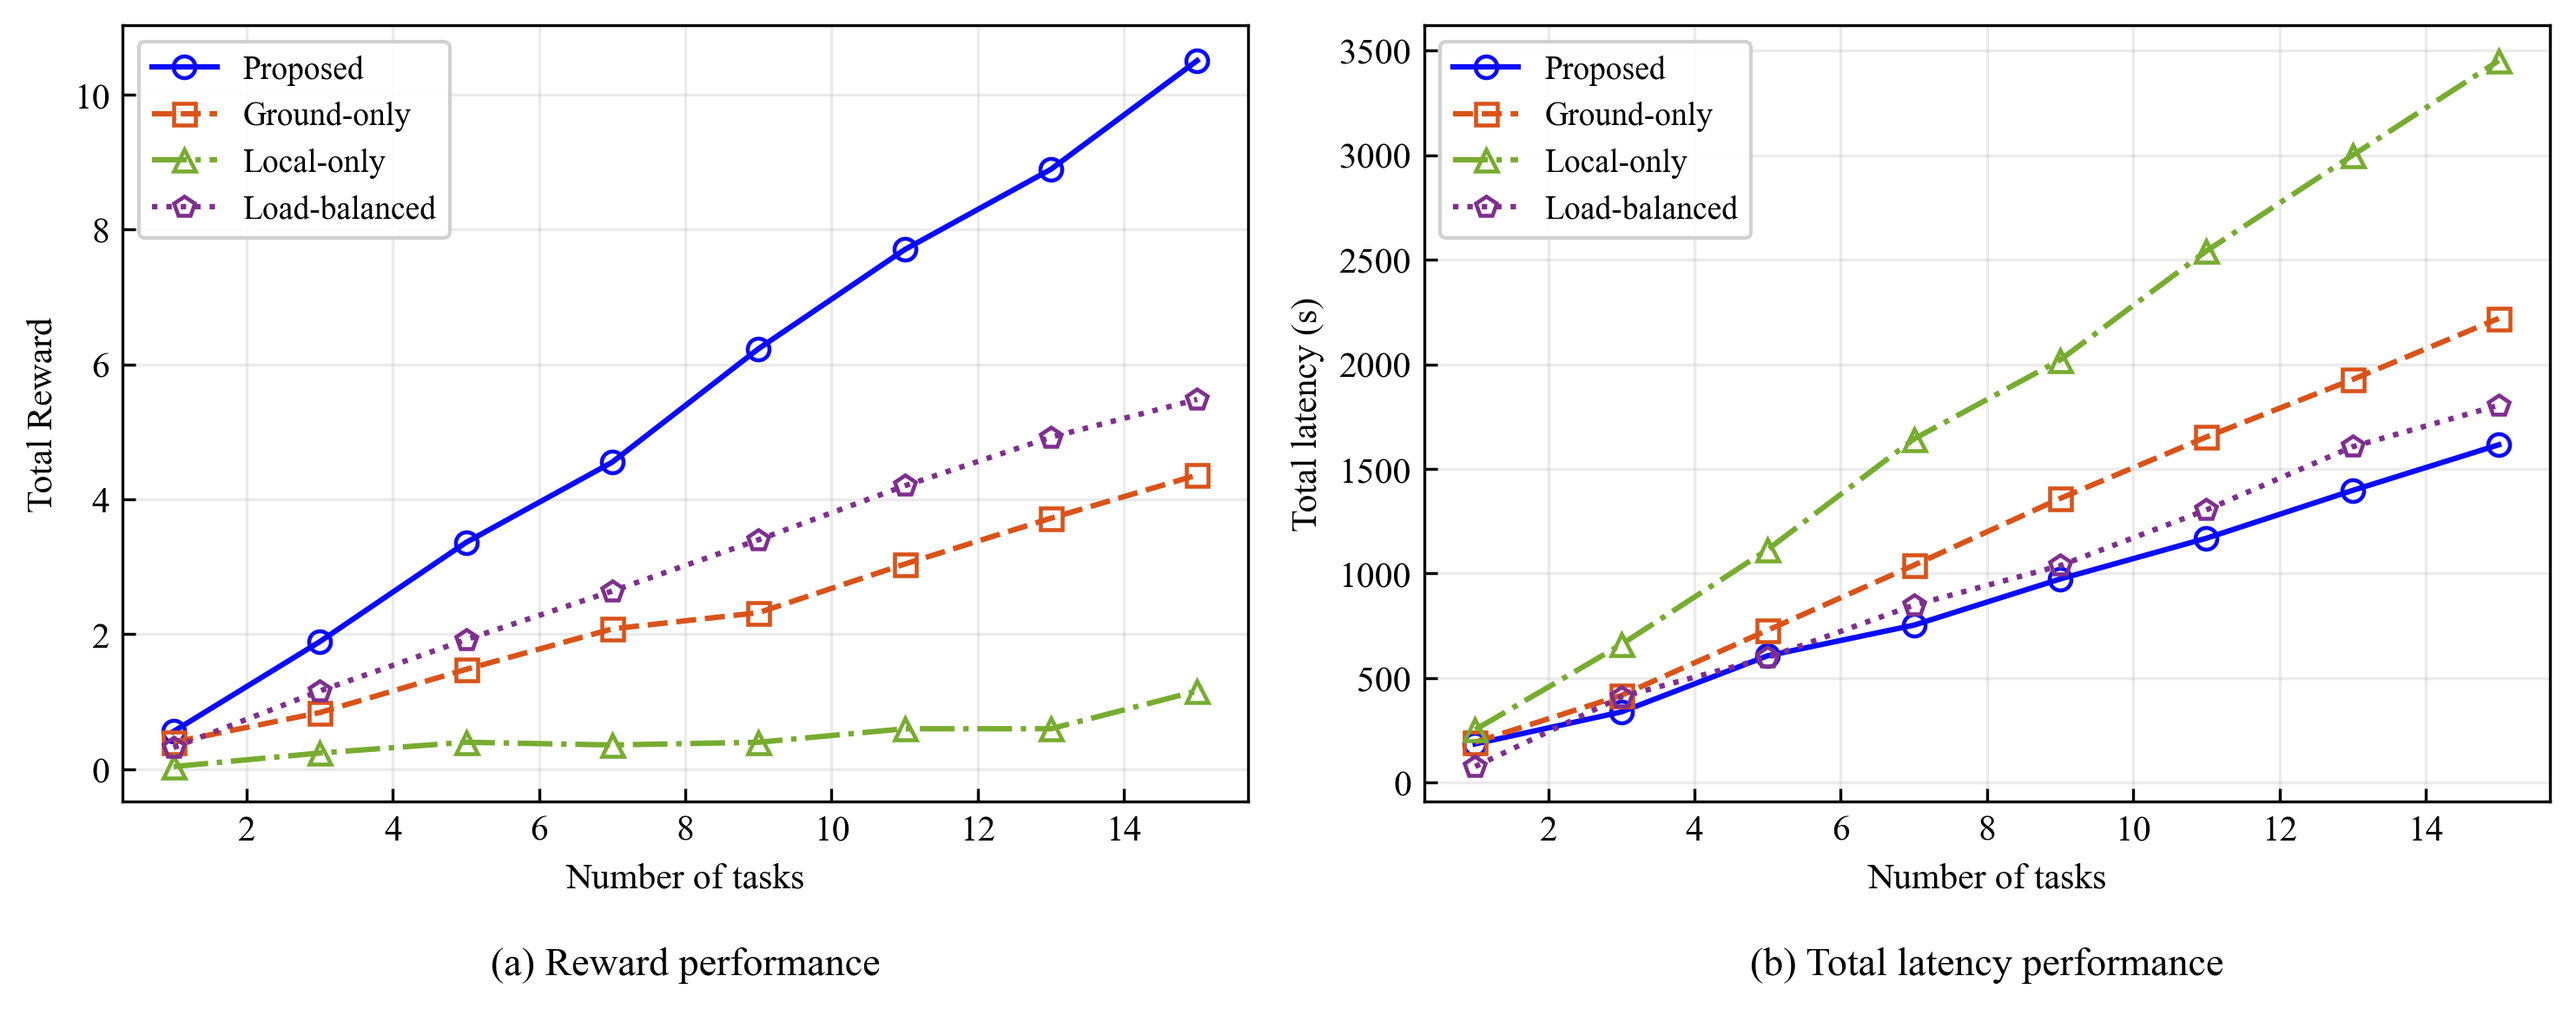
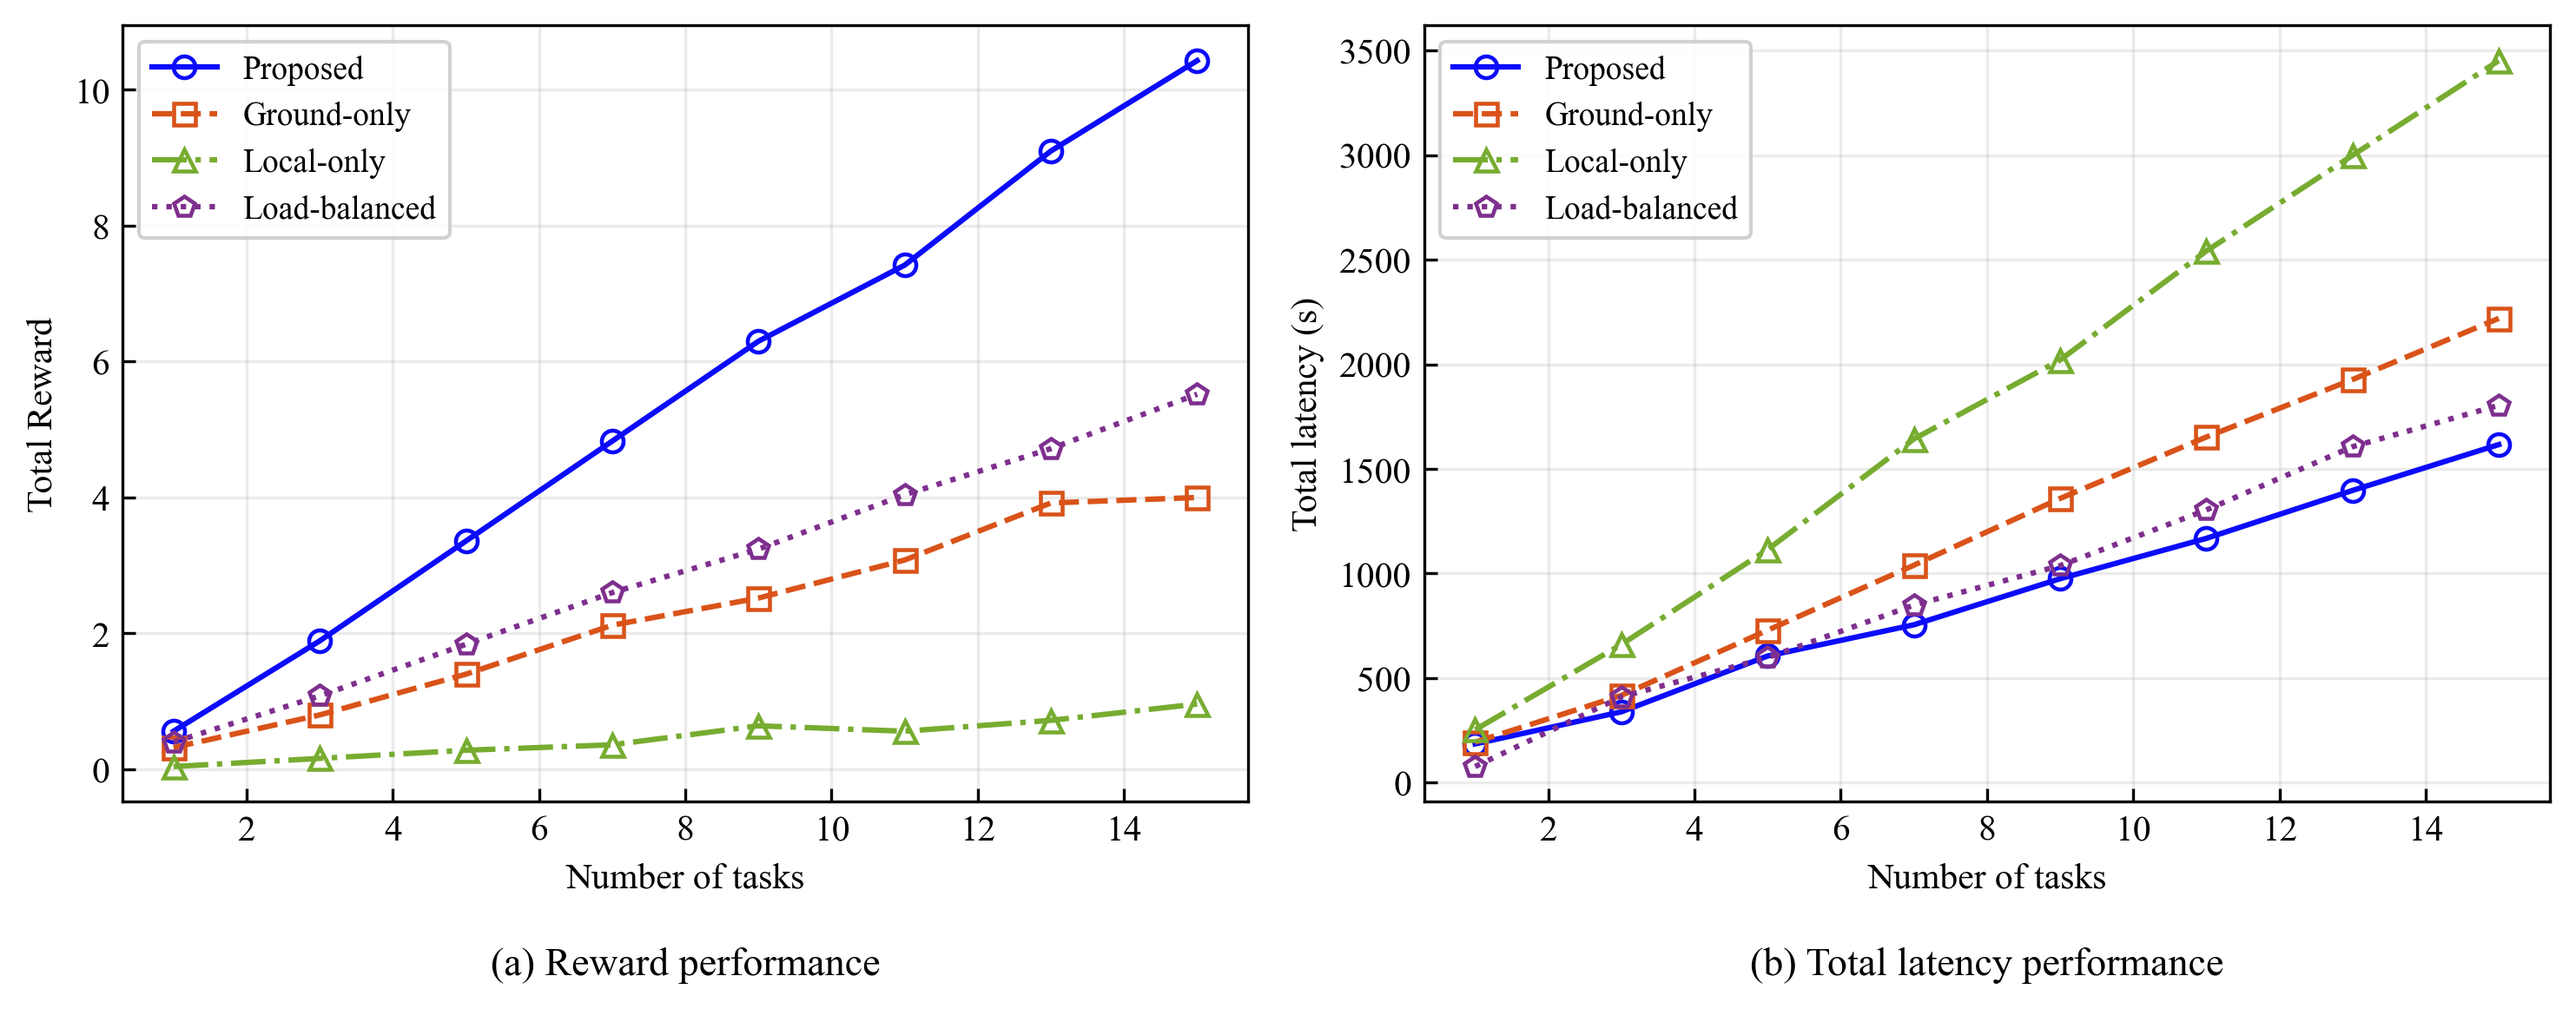
20251215 shift env

diff --git a/scripts/plot_perf_compare1.py b/scripts/plot_perf_compare1.py
@@ -115,7 +115,7 @@ def _constant_action(env, first_idx: int, assign_idx: int = 0) -> np.ndarray:
 
 def local_only_policy(env):
     """
-    "本地"基线改为把任务分摊到前三个可用计算卫星（不含地面站），
+    “本地”基线改为把任务分摊到前三个可用计算卫星（不含地面站），
     使用最小 slice_size（index 0），分配维度轮询 0/1/2。
     """
     nvec = np.array(env.action_space.nvec, dtype=np.int64)
@@ -139,7 +139,7 @@ def ground_only_policy(env):
 
 def load_balanced_policy(env):
     """
-    简单的"负载均衡"基线：slice_strategy 取最小（index 0），assignment 在可用 compute 节点间循环。
+    简单的“负载均衡”基线：slice_strategy 取最小（index 0），assignment 在可用 compute 节点间循环。
     """
     nvec = np.array(env.action_space.nvec, dtype=np.int64)
     first_idx = 0
@@ -153,30 +153,6 @@ def load_balanced_policy(env):
         # 假设 ground 是最后一个 dest，所以轮询只到 num_compute-1
         act[1:] = rr
     return act
-
-
-def _plot_panel(ax, xs, ys, ylabel, title, curves, jittered_latency=None):
-    """通用的绘图函数，用于在给定的坐标轴上绘制一个子图"""
-    for name, cfg in curves.items():
-        y_data = jittered_latency[name] if jittered_latency else cfg["ys_reward"]
-        ax.plot(
-            xs,
-            y_data,
-            label=name,
-            color=cfg["color"],
-            marker=cfg["marker"],
-            linestyle=cfg["ls"],
-            linewidth=1.5,
-            markersize=6,
-            markerfacecolor="none",
-            markeredgewidth=1.1,
-        )
-    ax.set_xlabel("Number of tasks")
-    ax.set_ylabel(ylabel)
-    ax.set_title(title, fontsize=11, y=-0.25)
-    ax.grid(True, alpha=0.25)
-    ax.tick_params(direction="in")
-    ax.legend(framealpha=0.9, fontsize=9)
 
 
 def main():
@@ -272,54 +248,43 @@ def main():
         env.close()
         print(f"[Eval] Point {i+1} done.\n", flush=True)
 
-    # 生成抖动后的延迟数据
+    # Plot side-by-side subplots: left = reward, right = total latency
+    fig, axes = plt.subplots(1, 2, figsize=(10, 4), sharex=False)
+
+    # Add small random jitter to latency points to visually separate lines
     rng = np.random.default_rng(1234)
     jittered_latency = {
         k: [max(y + rng.uniform(-50.0, 50.0), 0.0) for y in v["ys_latency"]]
         for k, v in curves.items()
     }
 
-    # 1. 创建并保存并排子图
-    fig, axes = plt.subplots(1, 2, figsize=(10, 4), sharex=False)
-    
-    # 绘制奖励子图
-    _plot_panel(axes[0], xs, {k: v["ys_reward"] for k, v in curves.items()}, 
-                "Total Reward", "(a) Reward performance", curves)
-    
-    # 绘制延迟子图
-    _plot_panel(axes[1], xs, jittered_latency, 
-                "Total latency (s)", "(b) Total latency performance", curves, jittered_latency)
-    
+    def _plot_panel(ax, ys, ylabel, title):
+        for name, cfg in curves.items():
+            ax.plot(
+                xs,
+                ys[name],
+                label=name,
+                color=cfg["color"],
+                marker=cfg["marker"],
+                linestyle=cfg["ls"],
+                linewidth=1.5,
+                markersize=6,
+                markerfacecolor="none",
+                markeredgewidth=1.1,
+            )
+        ax.set_xlabel("Number of tasks" if task_counts else "Eval batches")
+        ax.set_ylabel(ylabel)
+        ax.set_title(title, fontsize=11, y=-0.25)
+        ax.grid(True, alpha=0.25)
+        ax.tick_params(direction="in")
+        ax.legend(framealpha=0.9, fontsize=9)
+
+    _plot_panel(axes[0], {k: v["ys_reward"] for k, v in curves.items()}, "Total Reward", "(a) Reward performance")
+    _plot_panel(axes[1], jittered_latency, "Total latency (s)", "(b) Total latency performance")
+
     plt.tight_layout()
     fig.savefig(args.out, dpi=300, bbox_inches="tight")
-    print(f"Saved combined figure to {args.out}")
-    
-    # 2. 单独保存奖励子图
-    fig_reward, ax_reward = plt.subplots(figsize=(5, 4))
-    _plot_panel(ax_reward, xs, {k: v["ys_reward"] for k, v in curves.items()}, 
-                "Total Reward", "(a) Reward performance", curves)
-    plt.tight_layout()
-    
-    # 生成单独保存的文件名
-    base_name, ext = os.path.splitext(args.out)
-    reward_out = f"{base_name}_reward{ext}"
-    fig_reward.savefig(reward_out, dpi=300, bbox_inches="tight")
-    print(f"Saved reward subfigure to {reward_out}")
-    plt.close(fig_reward)
-    
-    # 3. 单独保存延迟子图
-    fig_latency, ax_latency = plt.subplots(figsize=(5, 4))
-    _plot_panel(ax_latency, xs, jittered_latency, 
-                "Total latency (s)", "(b) Total latency performance", curves, jittered_latency)
-    plt.tight_layout()
-    
-    latency_out = f"{base_name}_latency{ext}"
-    fig_latency.savefig(latency_out, dpi=300, bbox_inches="tight")
-    print(f"Saved latency subfigure to {latency_out}")
-    plt.close(fig_latency)
-    
-    # 关闭并排子图的图形
-    plt.close(fig)
+    print(f"Saved to {args.out}")
 
 
 if __name__ == "__main__":
